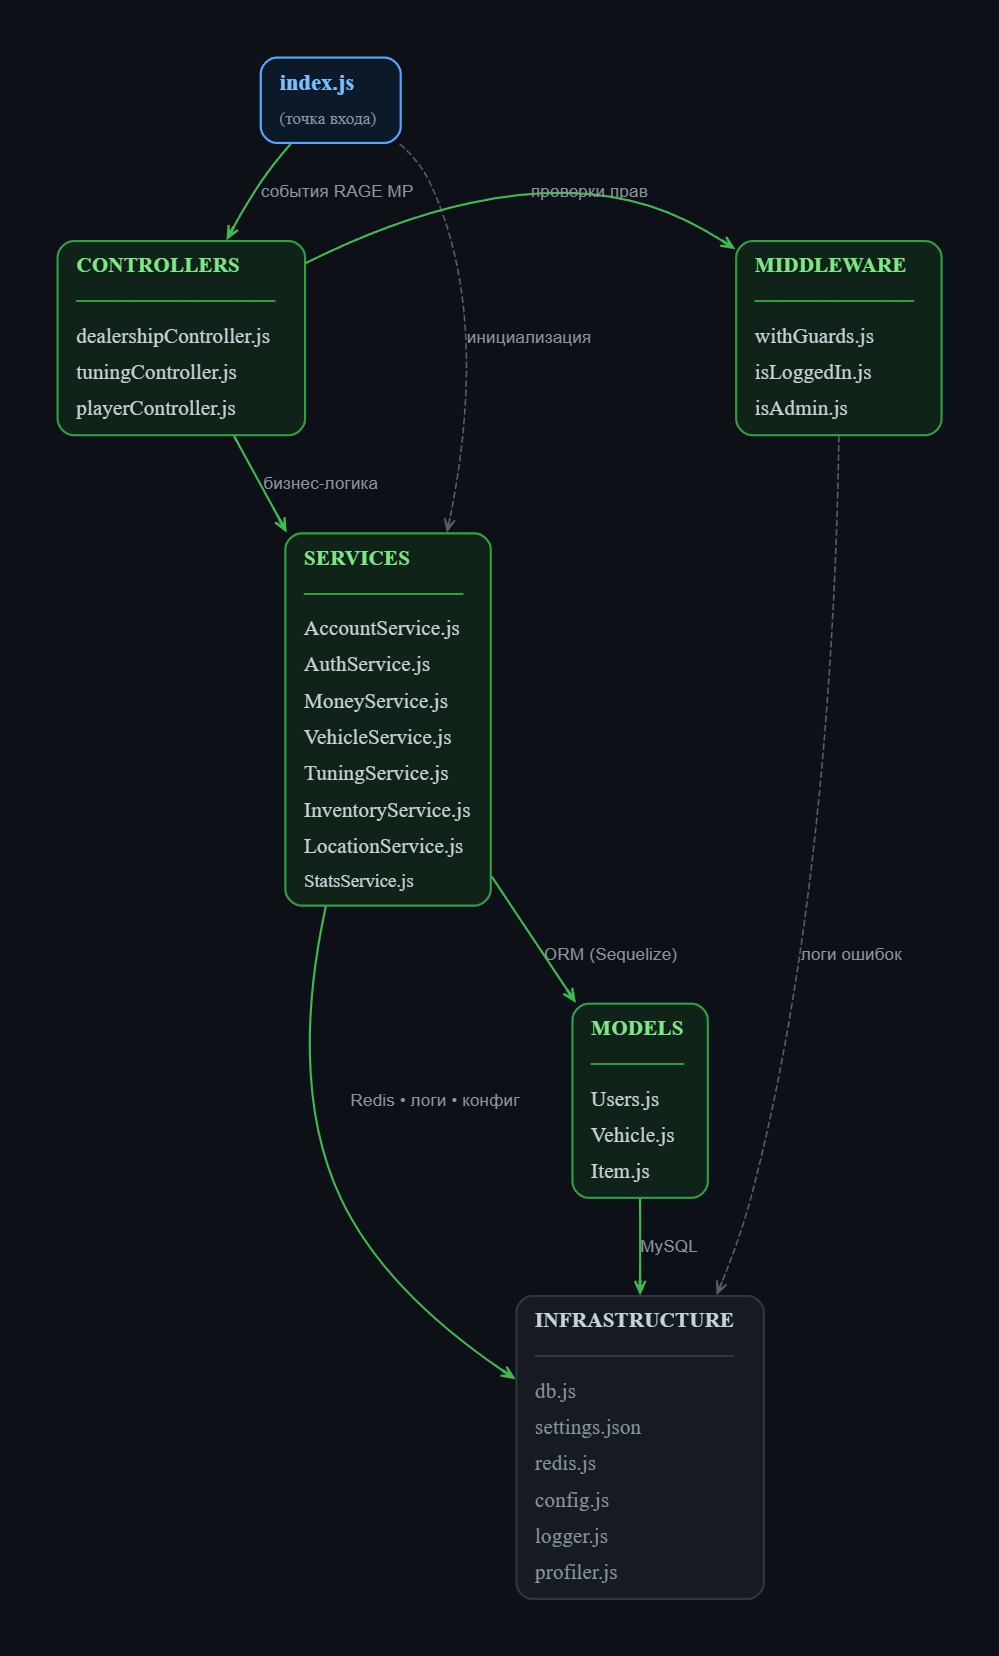
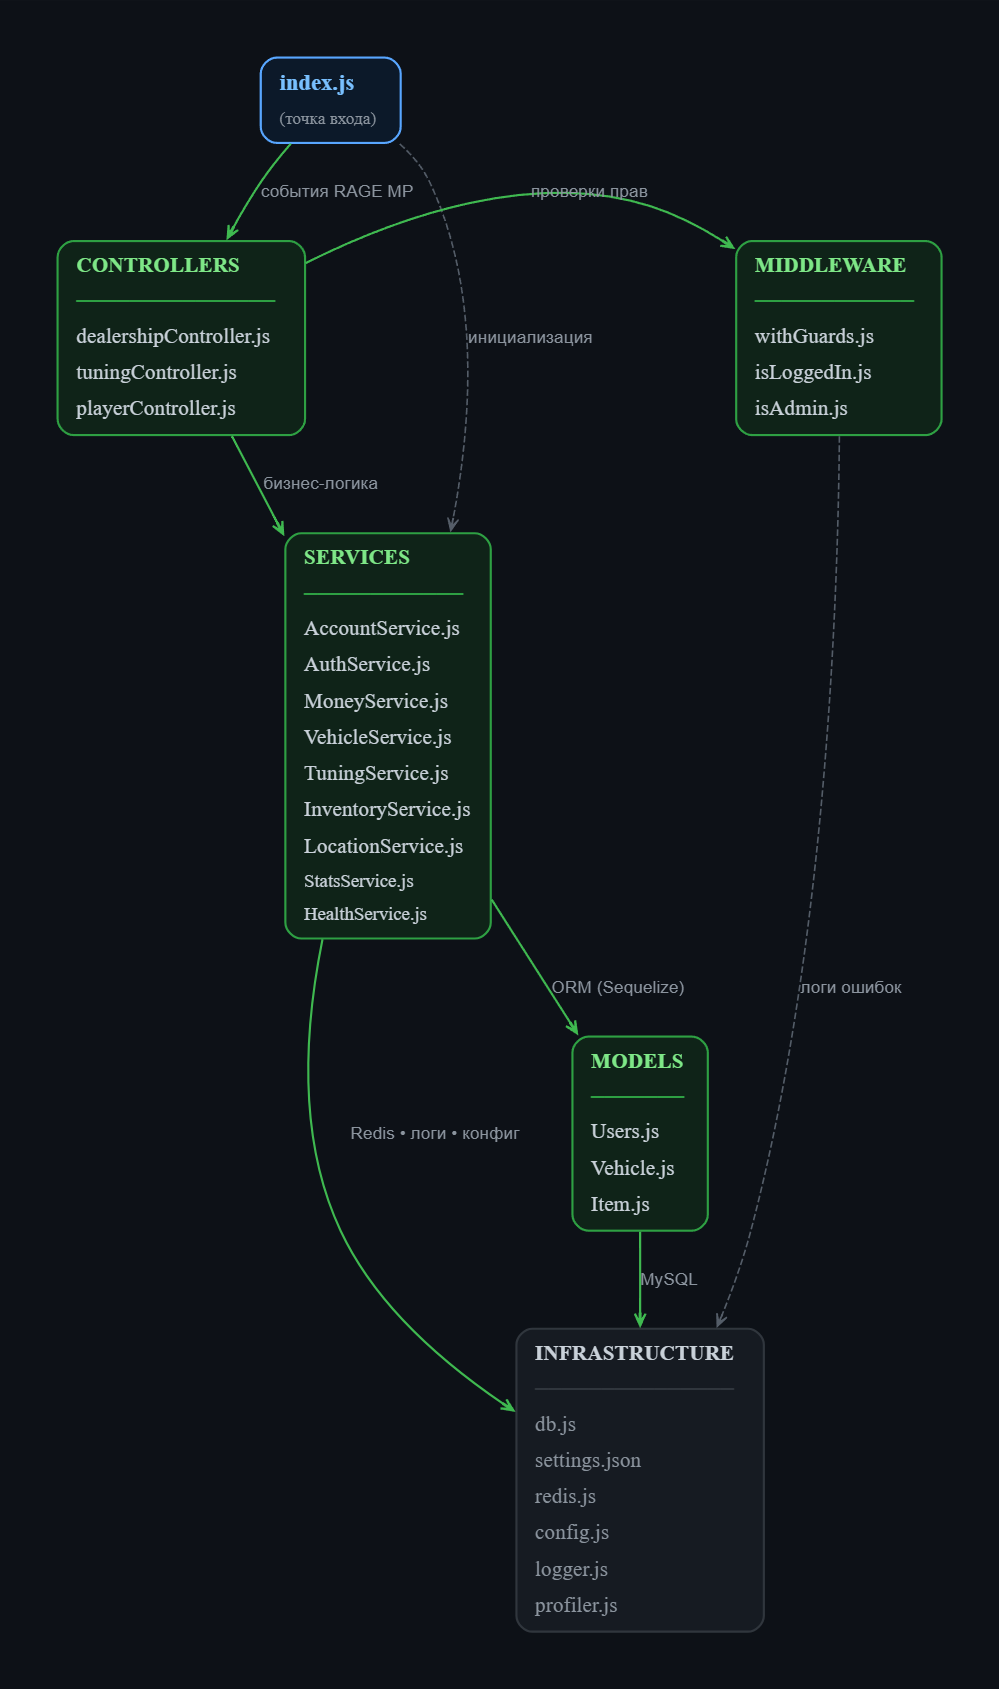
Docs: HealthService в README и графе, команды /sethp /heal /kill

diff --git a/README.md b/README.md
@@ -43,6 +43,7 @@
 | `InventoryService` | Предметы, стакинг с `maxStack`, проверка вместимости |
 | `LocationService` | Маркеры и blips из единого конфига |
 | `StatsService` | Агрегации экономики (SUM/AVG/MAX), топ игроков, онлайн; Redis-кэш с TTL |
+| `HealthService` | Здоровье игрока, смерть, респаун в больнице; clamp HP 1–100 |
 
 ### 2. Контроллеры (`controllers/`) — тонкие обработчики событий
 
@@ -164,6 +165,9 @@ function withGuards(guards, handler, label = '') {
 | `/bd` | Таблица аккаунтов в консоли сервера |
 | `/stats` | Витрина статистики: экономика, топ богачей, онлайн + время MySQL vs Redis |
 | `/delacc [логин]` | Каскадное удаление аккаунта (вещи/машины) + кик игрока |
+| `/sethp [1-100]` | Установить здоровье (кламп до 100) |
+| `/heal` | Полное восстановление здоровья |
+| `/kill` | Самоубийство (для теста респауна) |
 
 **Горячие клавиши:** `I` — инвентарь, `P` — телефон, `E` — взаимодействие с маркерами, `ESC` — закрыть окно, `F5` — debug-окно с координатами и логами (только админ), `Ё` — режим камеры в LSC.
 
@@ -202,6 +206,5 @@ npm run dev   # Vite на http://localhost:5173
 ## 📈 Точки роста
 
 - [ ] Jest-тесты сервисов (MoneyService, InventoryService, TuningService)
-- [ ] StatsService: SQL-агрегации + профилирование через `perf_hooks`
 - [ ] Античит: валидация дистанции до маркеров (`locationService.isNear`)
 - [ ] Уровни прокачки в LSC (БД уже готова — нужно только расширить UI)
